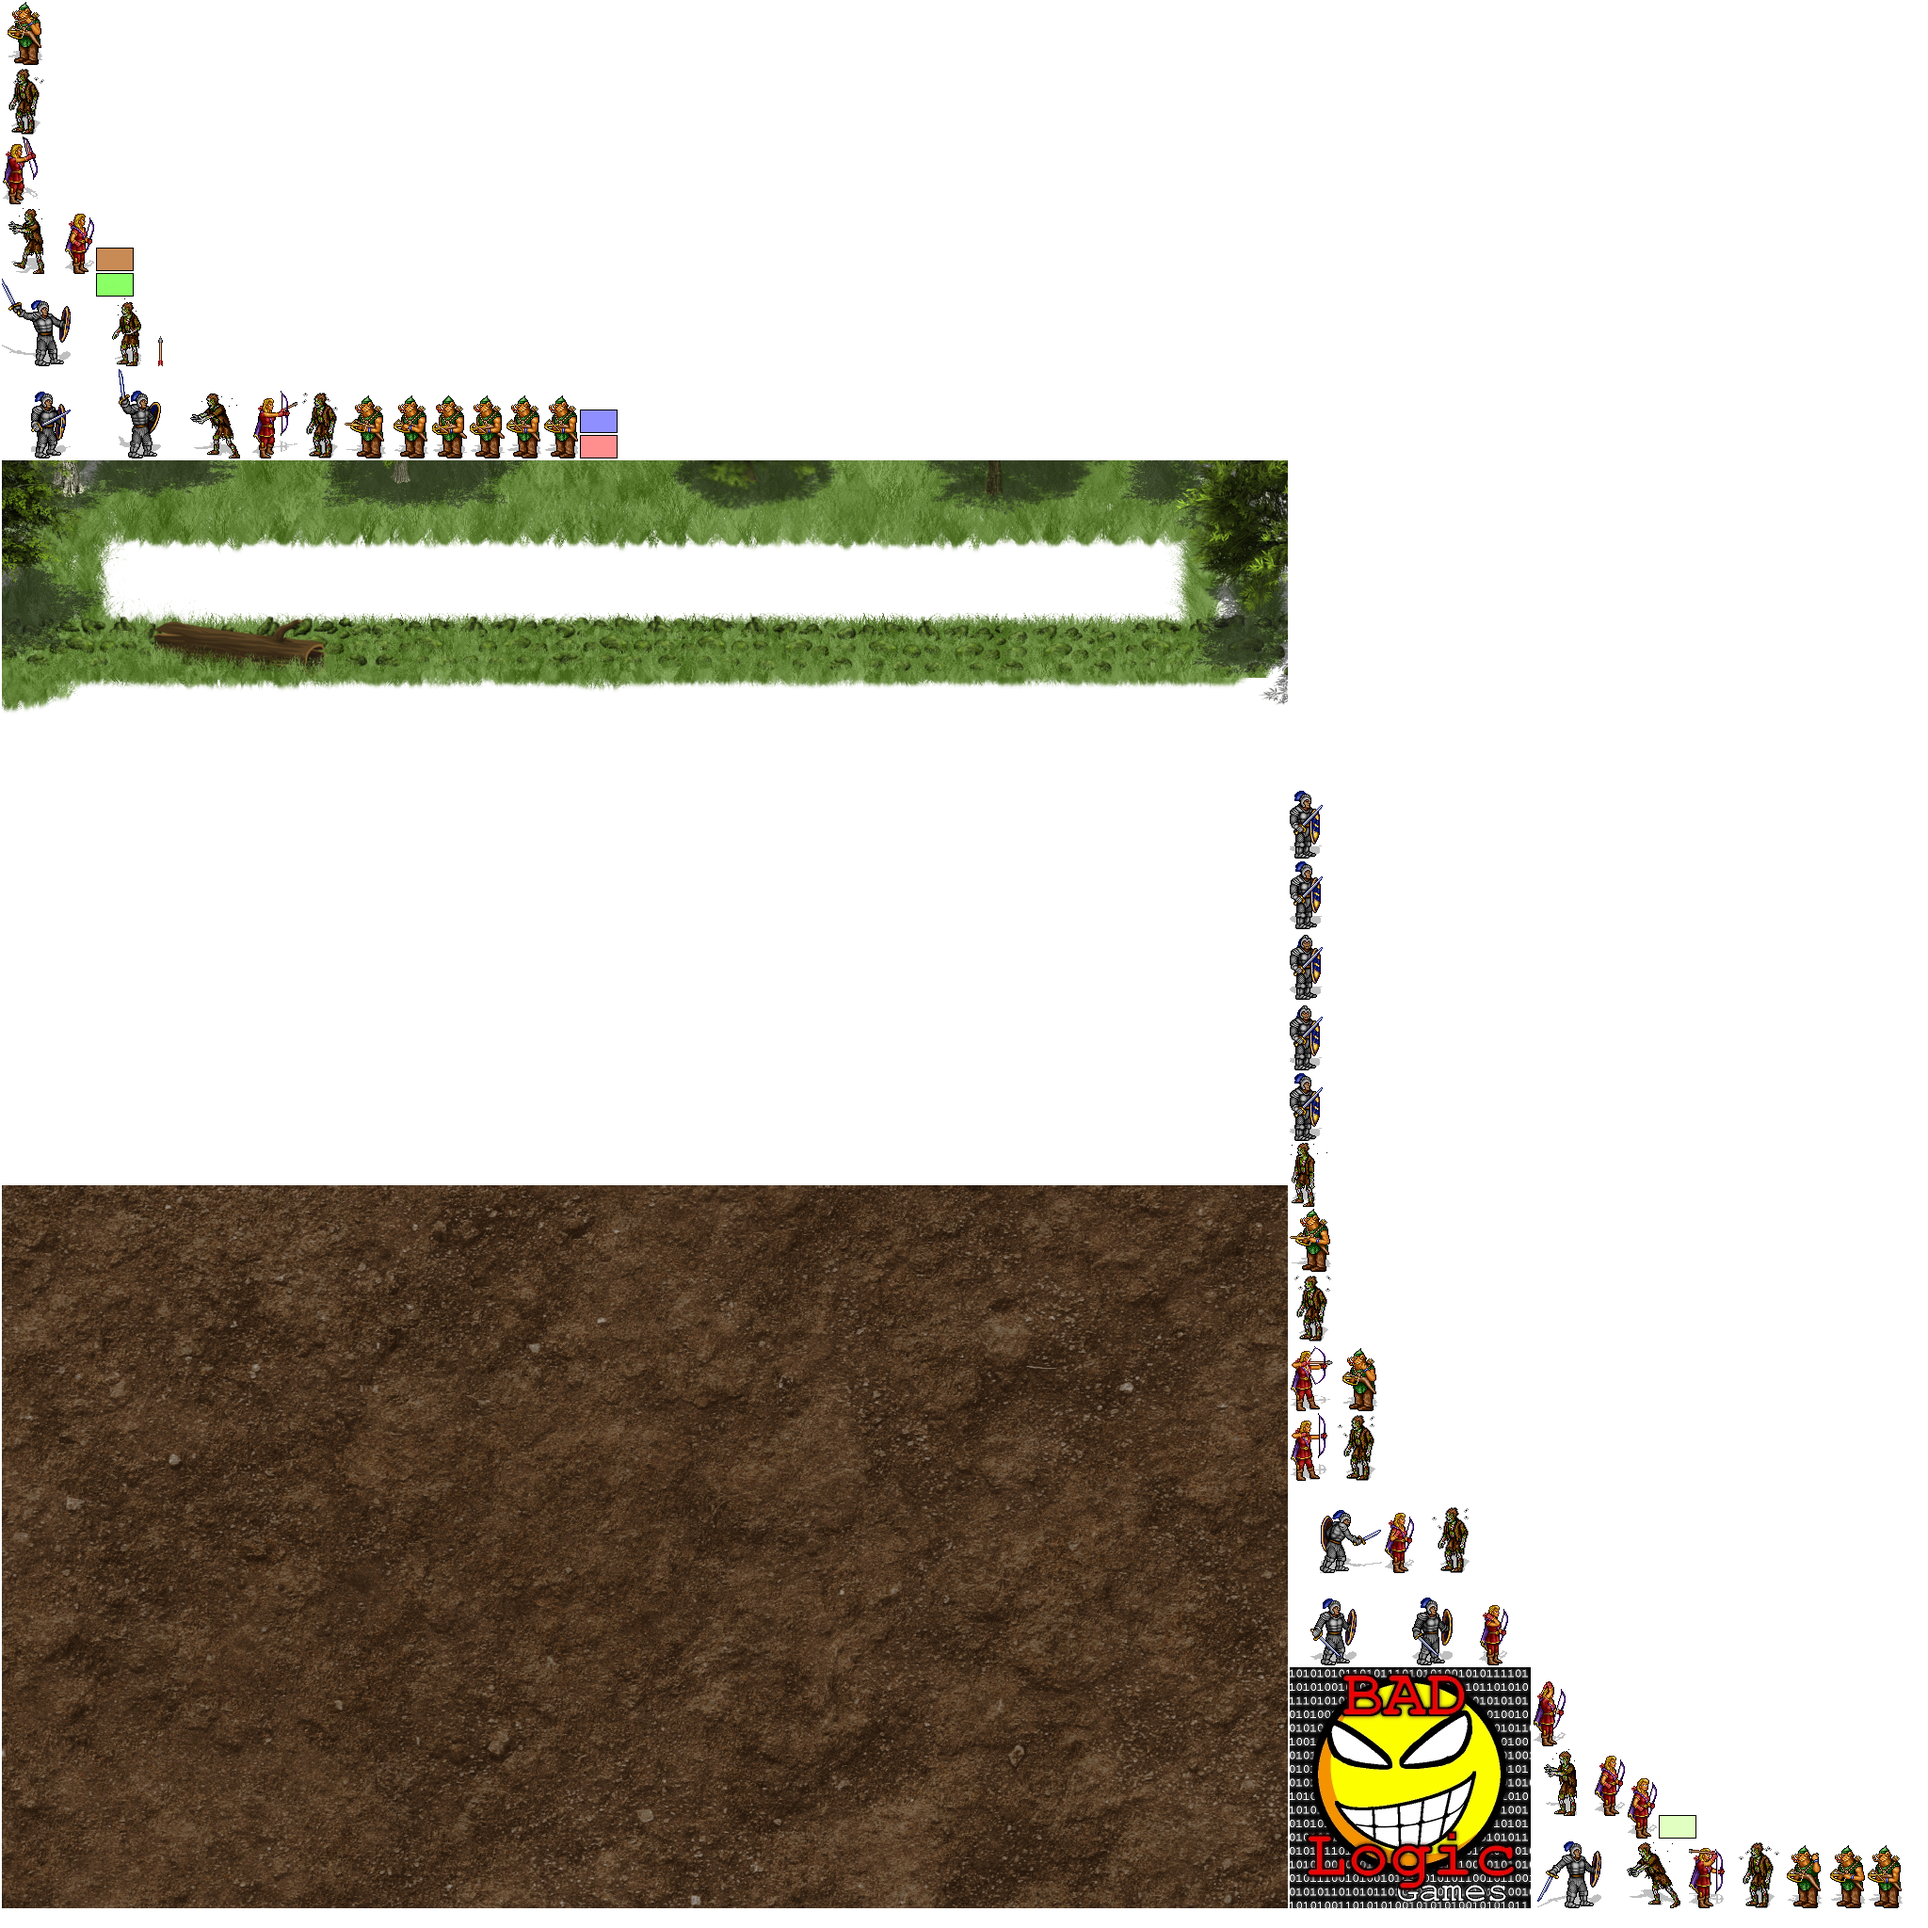
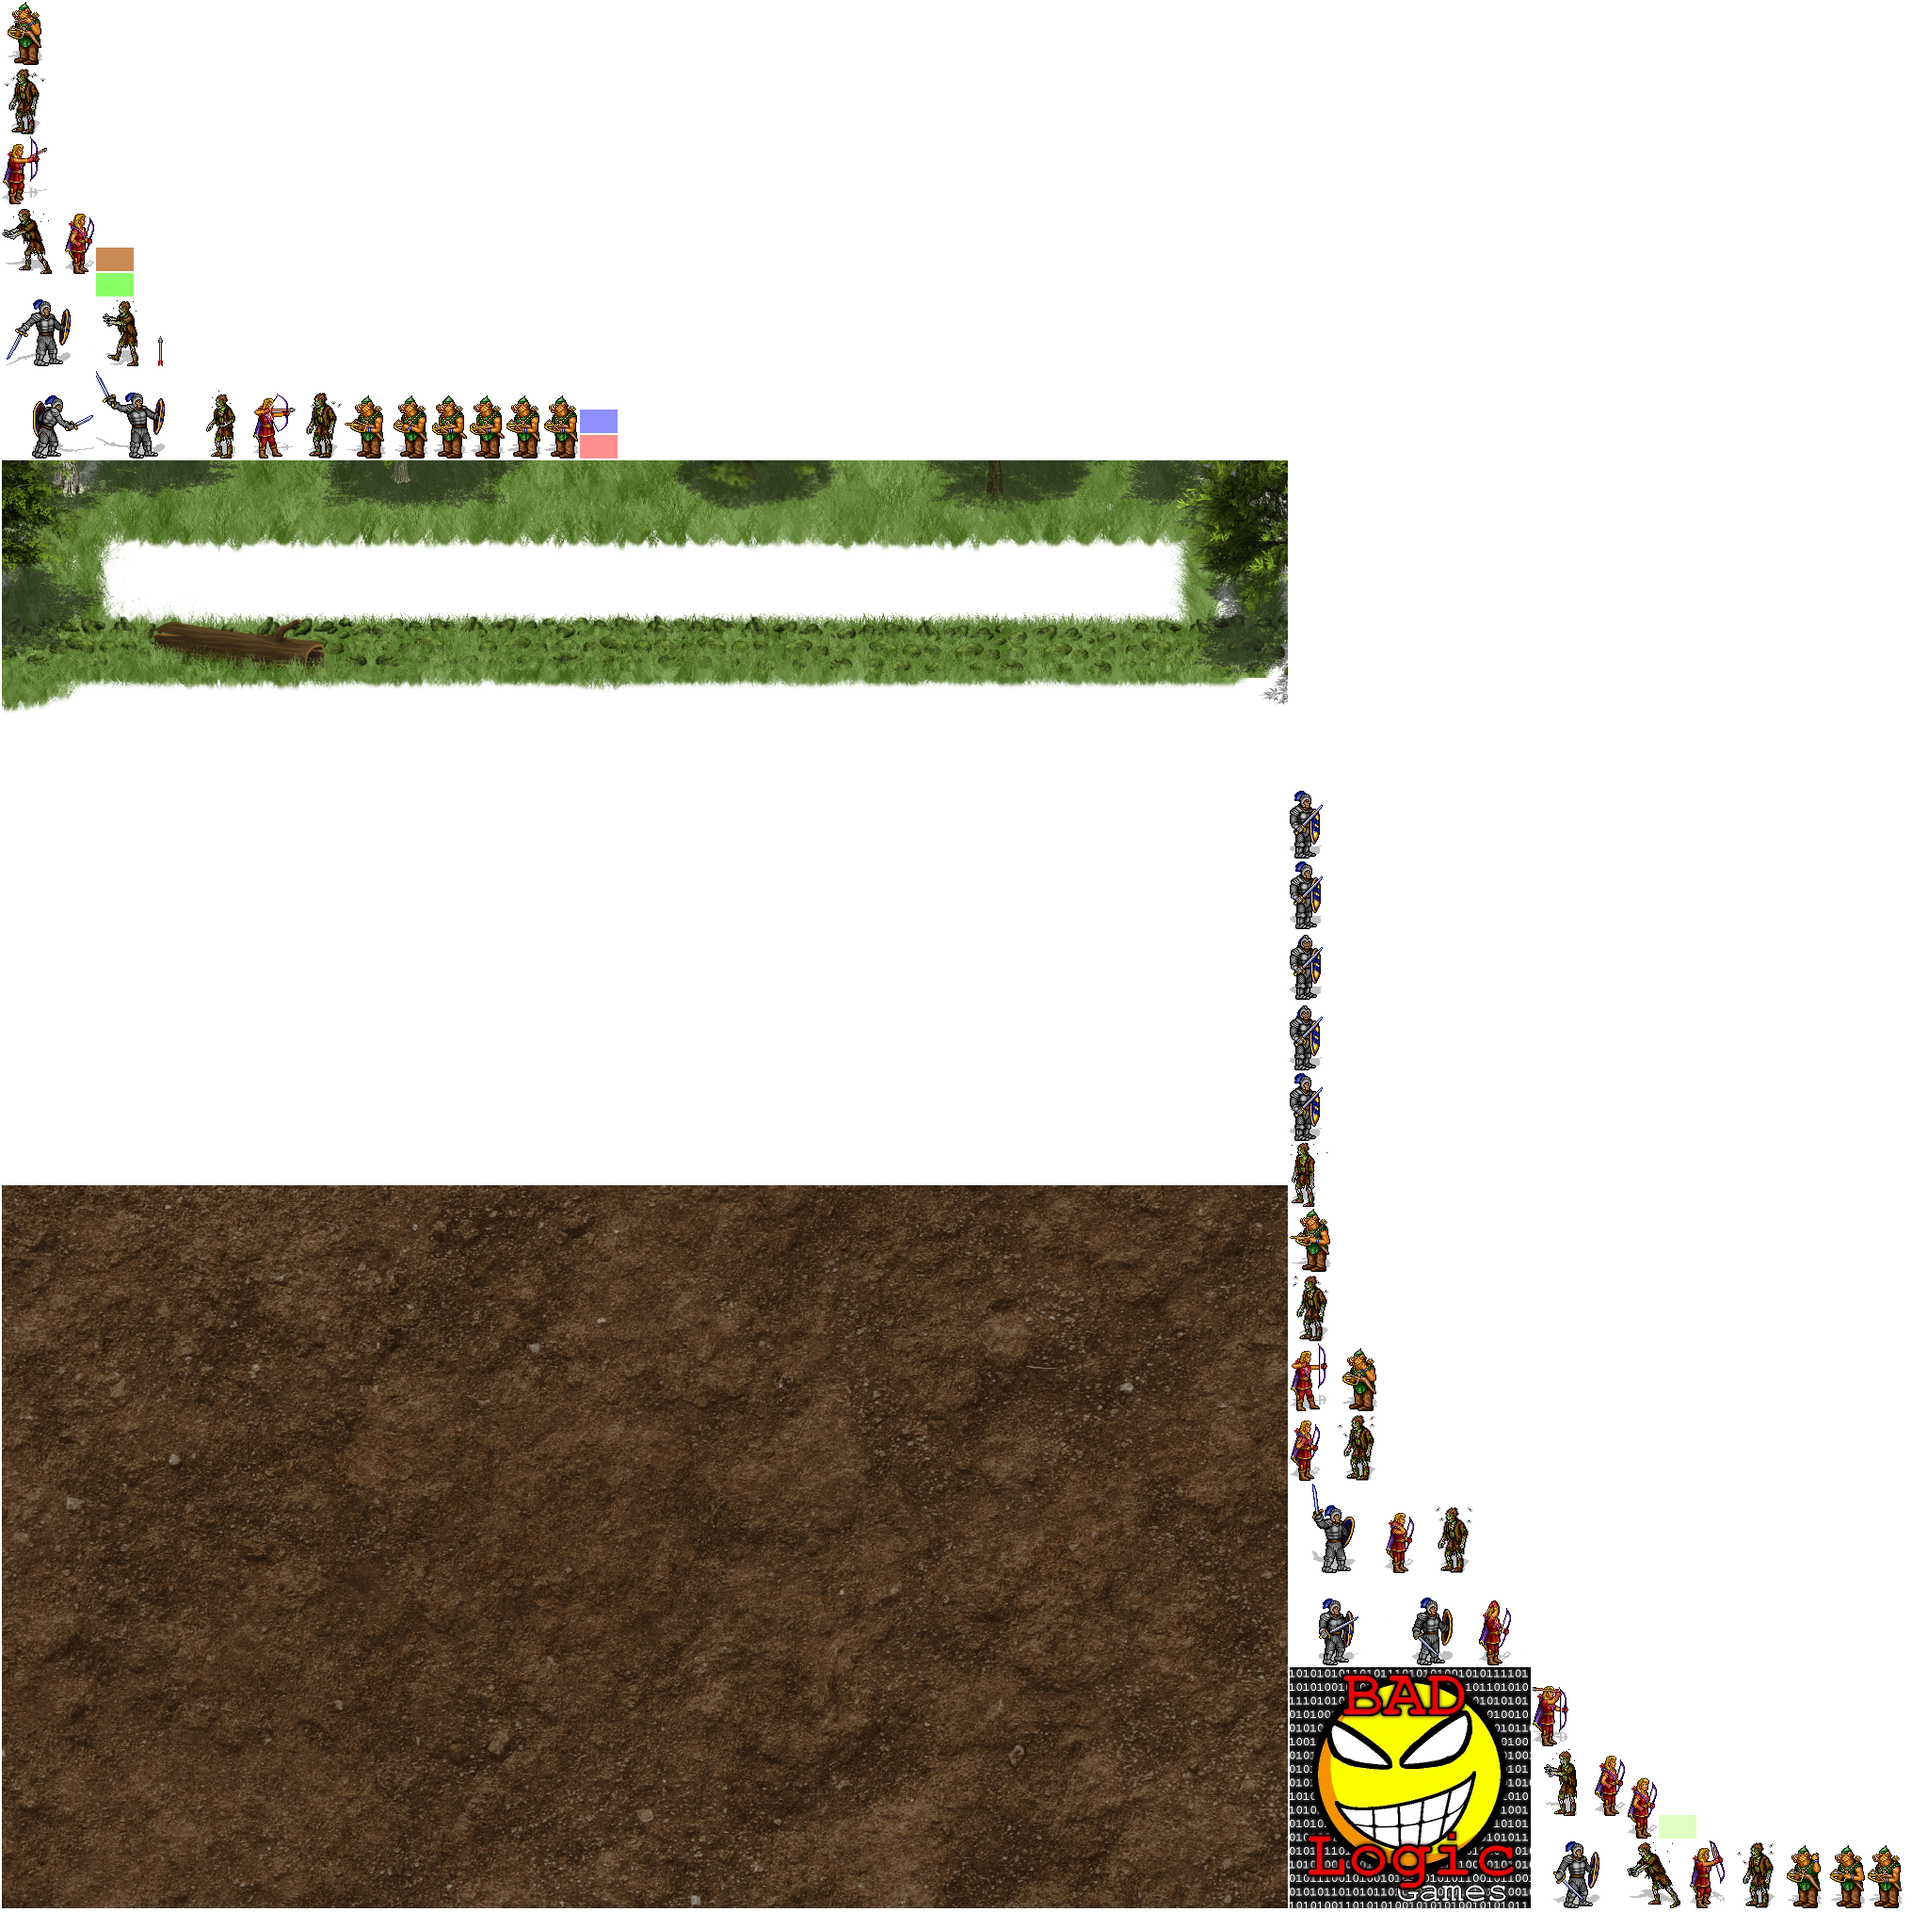
cell sprite changes; fixed end game result

diff --git a/core/src/com/d43/tbs/control/MapPlaying.java b/core/src/com/d43/tbs/control/MapPlaying.java
@@ -1,6 +1,5 @@
 package com.d43.tbs.control;
 
-import com.badlogic.gdx.Gdx;
 import com.badlogic.gdx.graphics.g2d.TextureAtlas;
 import com.badlogic.gdx.math.Polygon;
 import com.badlogic.gdx.math.Vector2;
@@ -22,6 +21,8 @@ public class MapPlaying extends MapHandler {
 	private GameScreen gameScreen;
 
 	private boolean win;
+	
+	private int alliesCount, enemiesCount;
 
 	public MapPlaying(CellMap cells, DefeatedZone defeatedZone, Array<Unit> allies, Array<Unit> enemies) {
 		this.map = cells;
@@ -35,6 +36,9 @@ public class MapPlaying extends MapHandler {
 		this.bot = new Bot(this.allies, this.enemies, this, this.map);
 
 		this.movingUnit = null;
+		
+		this.alliesCount = allies.size;
+		this.enemiesCount = enemies.size;
 	}
 
 	public boolean isPlaying() {
@@ -207,16 +211,18 @@ public class MapPlaying extends MapHandler {
 
 		result[0] = win ? "You WON" : "You LOST";
 
-		int aliveAlliesCount = 0;
-		for (int i = 0; i < allies.size; i++)
-			if (allies.get(i).isAlive())
-				aliveAlliesCount++;
+		int aliveAlliesCount = allies.size;
+//		int aliveAlliesCount = 0;
+//		for (int i = 0; i < allies.size; i++)
+//			if (allies.get(i).isAlive())
+//				aliveAlliesCount++;
 //		result[1] = "Your team has " + Integer.toString(aliveAlliesCount) + " units alive";
 
-		int aliveEnemiesCount = 0;
-		for (int i = 0; i < enemies.size; i++)
-			if (enemies.get(i).isAlive())
-				aliveEnemiesCount++;
+		int aliveEnemiesCount = enemies.size;
+//		int aliveEnemiesCount = 0;
+//		for (int i = 0; i < enemies.size; i++)
+//			if (enemies.get(i).isAlive())
+//				aliveEnemiesCount++;
 //		result[2] = "Enemy team has " + Integer.toString(aliveEnemiesCount) + " units alive";
 
 		if (win)
@@ -224,9 +230,9 @@ public class MapPlaying extends MapHandler {
 		else
 			result[1] = "Enemy team has " + Integer.toString(aliveEnemiesCount) + " units alive";
 
-		result[2] = "You have slain " + Integer.toString(enemies.size - aliveEnemiesCount) + " enemy units";
+		result[2] = "You have slain " + Integer.toString(enemiesCount - enemies.size) + " enemy units";
 
-		result[3] = "Enemy have slain " + Integer.toString(allies.size - aliveAlliesCount) + " your units";
+		result[3] = "Enemy have slain " + Integer.toString(alliesCount - allies.size) + " your units";
 
 		return result;
 	}
